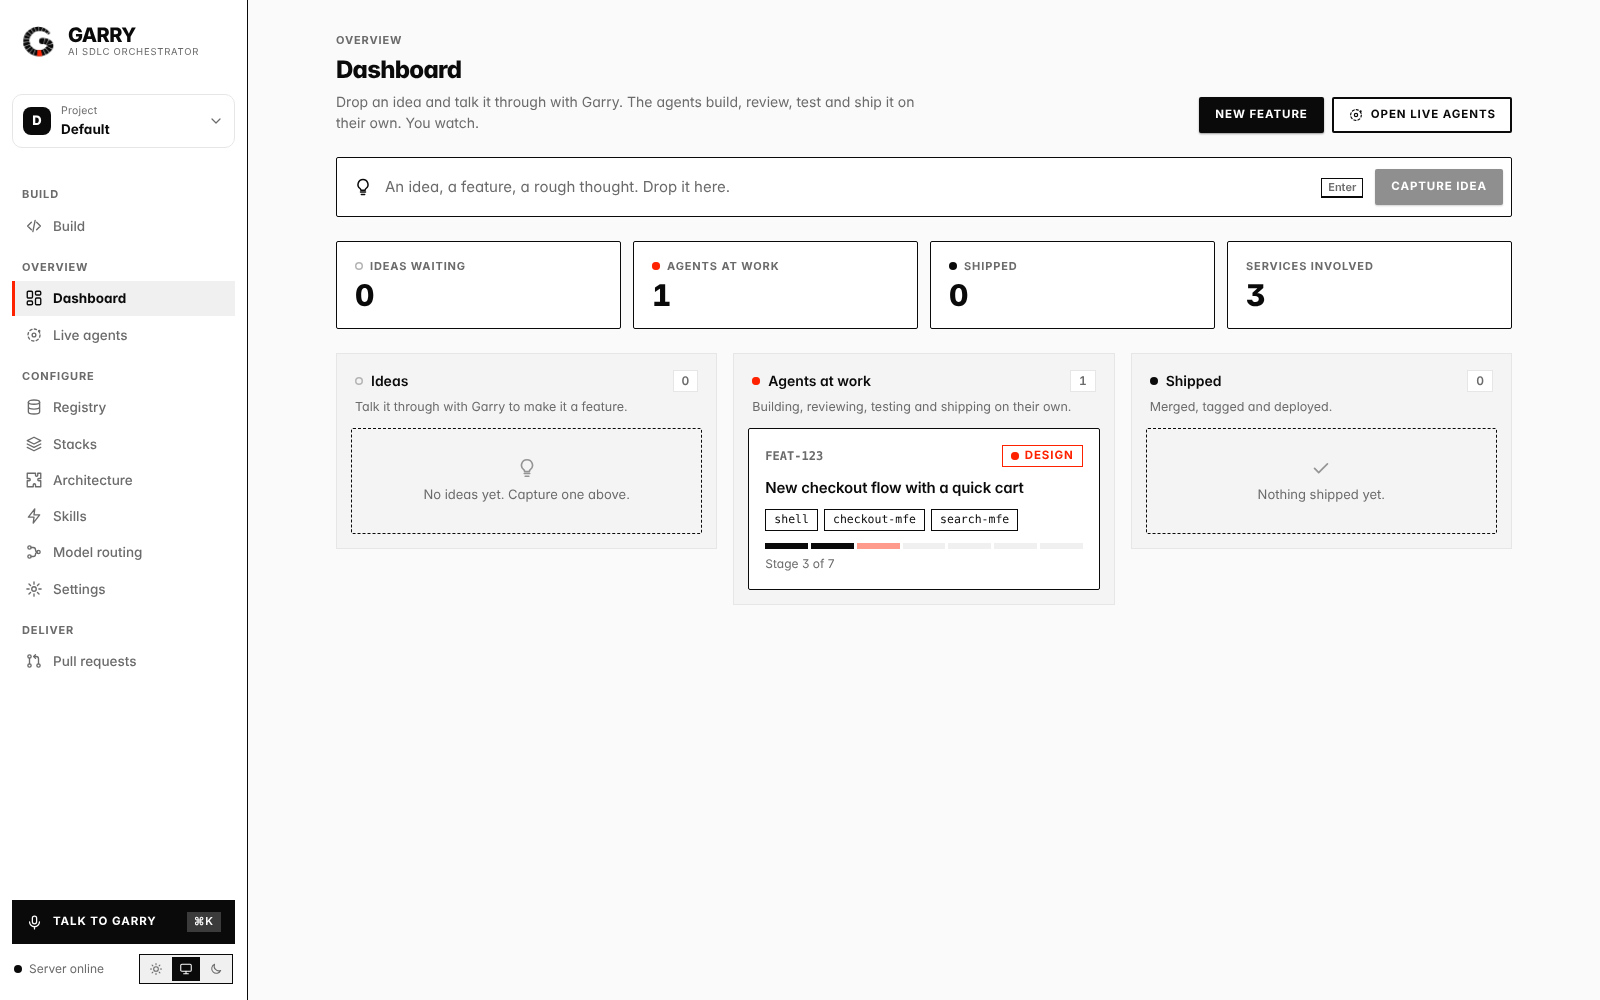
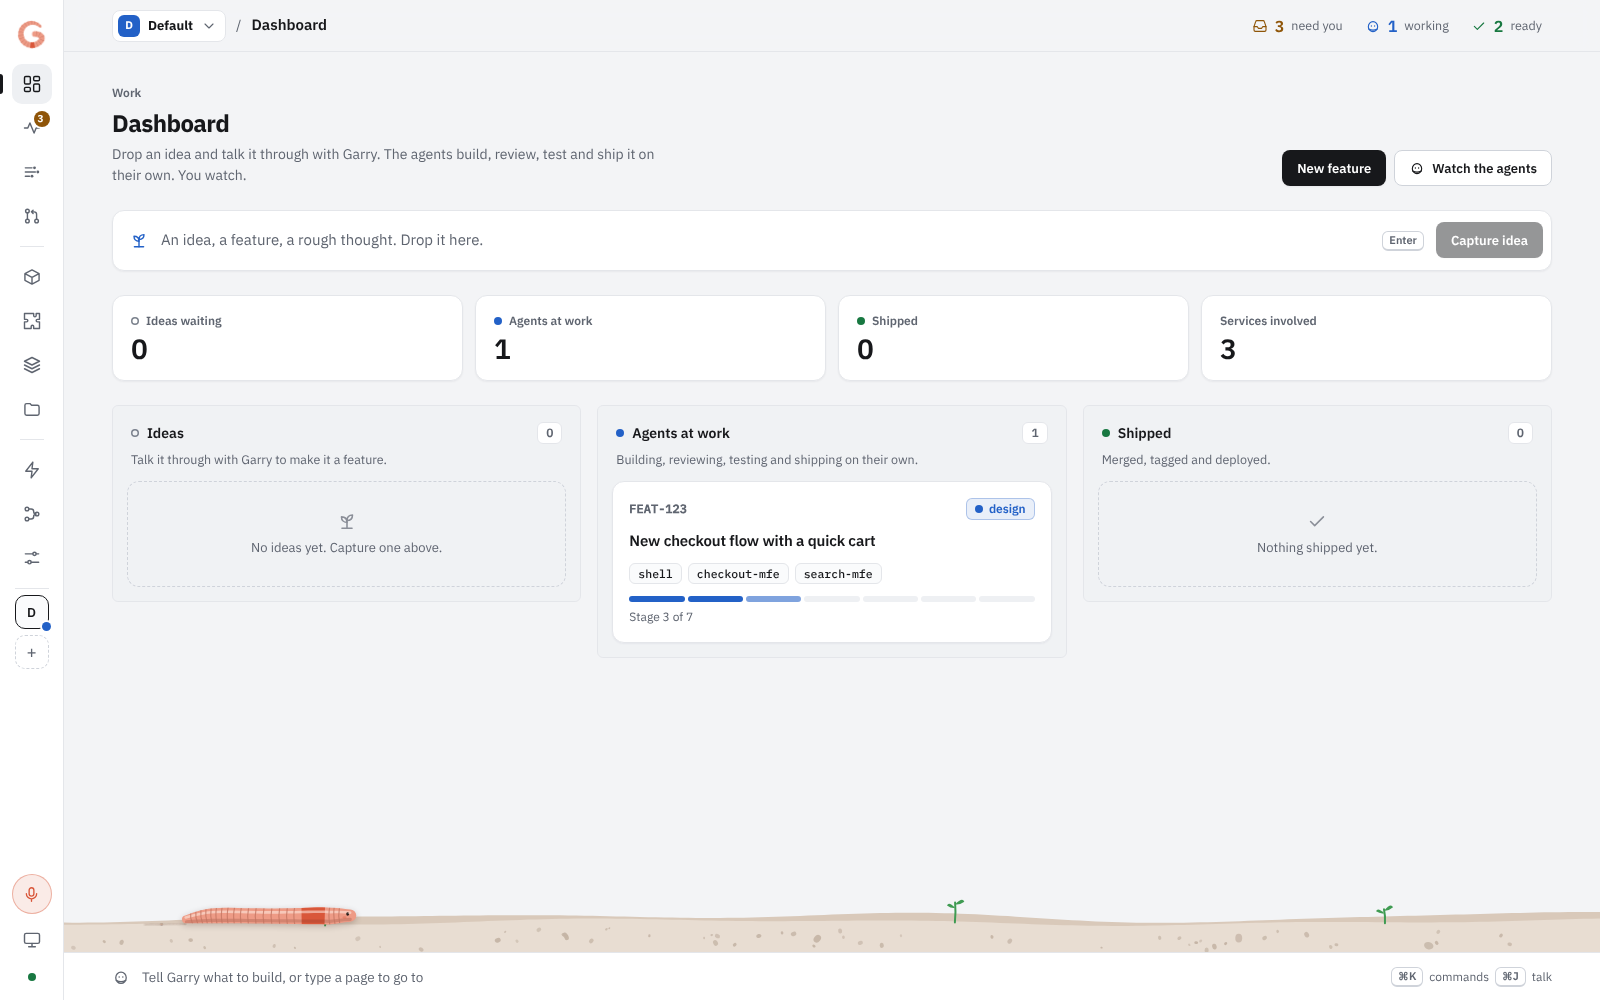
README: the new look, Live, the iPhone app; fresh screenshots
- README describes Live, the frame (rail, top bar, Cmd/Ctrl+K command line,
  Cmd/Ctrl+J voice dock), the crew and illustrations, the iPhone home
  screen, and the browser tests CI runs.
- Screenshots retaken in the new look, plus Live and the iPhone app in
  both themes; garry-tool/scripts/readme-shots.ts (pnpm -C garry-tool
  readme-shots) retakes them all against a demo project.
- The architecture minimap follows the theme (it was light grey in dark).

Claude-Session: https://claude.ai/code/session_013NkSSFzuoQNaFp86Zehbkj

diff --git a/garry-tool/scripts/readme-shots.ts b/garry-tool/scripts/readme-shots.ts
@@ -1,0 +1,146 @@
+/**
+ * The README's screenshots (docs/screenshots), taken from the real dashboard
+ * and the iPhone app's web build against a real Garry server with a demo
+ * project: agents that ask, work, stopped and are ready (a stand-in for
+ * Claude Code runs them), the frontend test registry, and an architecture
+ * board from a ready-made template. Run after a change to how Garry looks:
+ *   pnpm -C garry-ui build && pnpm -C garry-mobile export:web
+ *   pnpm -C garry-tool readme-shots
+ */
+import { execFileSync } from "node:child_process";
+import { cpSync, existsSync, mkdirSync, mkdtempSync, readFileSync, writeFileSync } from "node:fs";
+import { createServer } from "node:http";
+import { tmpdir } from "node:os";
+import { extname, join, normalize } from "node:path";
+import { fileURLToPath } from "node:url";
+import type { AddressInfo } from "node:net";
+
+const home = mkdtempSync(join(tmpdir(), "garry-readme-"));
+process.env.GARRY_HOME = join(home, ".garry");
+process.env.GARRY_NO_GH = "1";
+process.env.GARRY_CLAUDE_BIN = fileURLToPath(new URL("../src/threads/testdata/fake-claude.mjs", import.meta.url));
+const ui = fileURLToPath(new URL("../../garry-ui/dist", import.meta.url));
+const phoneApp = fileURLToPath(new URL("../../garry-mobile/dist", import.meta.url));
+const out = fileURLToPath(new URL("../../docs/screenshots", import.meta.url));
+if (!existsSync(join(ui, "index.html"))) throw new Error("build the dashboard first: pnpm -C garry-ui build");
+mkdirSync(out, { recursive: true });
+
+const { createGarryServer } = await import("../src/server/server.js");
+const { DeviceStore } = await import("../src/server/auth.js");
+const { ThreadManager } = await import("../src/threads/manager.js");
+const { ThreadStore } = await import("../src/threads/store.js");
+const { saveArchitecture } = await import("../src/registry/architecture.js");
+const { ARCHITECTURE_TEMPLATES } = await import("../src/registry/schema/templates.js");
+const { launchChromium } = await import("../src/shots/browser.js");
+
+const until = async (f: () => boolean, ms = 10_000) => {
+  const end = Date.now() + ms;
+  while (!f() && Date.now() < end) await new Promise((r) => setTimeout(r, 50));
+};
+
+// the demo project: a shop with agents in every state
+const repo = join(home, "shop");
+execFileSync("git", ["init", "-q", repo]);
+writeFileSync(join(repo, "README.md"), "# shop\n");
+execFileSync("git", ["-C", repo, "add", "-A"]);
+execFileSync("git", ["-C", repo, "-c", "user.name=t", "-c", "user.email=t@t", "commit", "-qm", "init"]);
+const threads = new ThreadManager(new ThreadStore(process.env.GARRY_HOME!));
+const project = threads.store.addProject(repo, "Shop");
+const minAgo = (m: number) => new Date(Date.now() - m * 60_000).toISOString();
+const past = (title: string, from: number, to: number, said: string, cost: number) => {
+  const t = threads.store.save({ id: threads.store.newId(), projectId: project.id, title, status: "idle", branch: `garry/${title.toLowerCase().replace(/\W+/g, "-")}`, worktree: repo, baseSha: "0", sessionId: null, createdAt: minAgo(from), updatedAt: minAgo(to) });
+  threads.store.append(t.id, { type: "user", text: title, at: minAgo(from) });
+  threads.store.append(t.id, { type: "tool", id: "a", name: "Read", summary: "src/cart/index.ts", at: minAgo(from - 2) });
+  threads.store.append(t.id, { type: "tool", id: "b", name: "Edit", summary: "src/cart/QuickCart.tsx", at: minAgo(from - 6) });
+  threads.store.append(t.id, { type: "text", text: said, at: minAgo(to) });
+  threads.store.append(t.id, { type: "turn_end", ok: true, costUsd: cost, at: minAgo(to) });
+  return t.id;
+};
+past("Plan the summer sale", 44, 27, "Here is a plan for the sale: banners, a countdown and 20% off shoes.\nShould it start on Monday?", 0.12);
+past("Move the cart to its own service", 52, 31, "The cart now lives in cart-service, with its contract updated.", 0.21);
+const run = async (task: string) => {
+  const t = threads.create(project.id, task);
+  await until(() => !threads.isRunning(t.id));
+  return t.id;
+};
+const ready = await run("Write the release notes for the spring sale");
+await run("ASK Add a buy button to the product page");
+await run("FAIL Fix the search prices");
+const busy = threads.create(project.id, "BUSY Add a checkout page with a quick cart");
+await until(() => threads.store.events(busy.id).some((e) => e.type === "tool"));
+
+const registry = join(home, "registry");
+cpSync(fileURLToPath(new URL("../testdata/registry/frontend", import.meta.url)), registry, { recursive: true });
+saveArchitecture(registry, ARCHITECTURE_TEMPLATES.find((t) => t.id === "aws-serverless")!.architecture);
+
+const devices = new DeviceStore(join(home, "devices.json"));
+const server = createGarryServer({ registry, skills: fileURLToPath(new URL("../skills", import.meta.url)), routing: join(home, "none.json"), threads, ui }, devices);
+await new Promise<void>((r) => server.listen(0, "127.0.0.1", r));
+const base = `http://127.0.0.1:${(server.address() as AddressInfo).port}`;
+
+const browser = await launchChromium();
+try {
+  const page = await browser.newPage({ viewport: { width: 1600, height: 1000 } });
+  const shoot = async (name: string, path: string, ready: string, scrollTo?: string) => {
+    await page.goto(`${base}${path}`);
+    await page.locator(ready).first().waitFor({ timeout: 15_000 });
+    // what the picture is about, at the top of the window
+    if (scrollTo) await page.locator(scrollTo).first().evaluate((el) => (el.scrollIntoView({ block: "start" }), window.scrollBy(0, -72)));
+    await page.waitForTimeout(900);
+    await page.screenshot({ path: join(out, `${name}.png`) });
+    console.log(`ok   ${name}.png`);
+  };
+  await shoot("live", "/live", '[role="option"]');
+  await shoot("dashboard", "/", "canvas[data-garry-crawl]");
+  await shoot("build", "/build", "textarea");
+  await shoot("thread", `/build/${ready}`, "text=wrote NOTES.md");
+  await shoot("pipeline", "/build?view=pipeline&feature=FEAT-123", "svg[data-crew]", '[role="tablist"]');
+  await shoot("architecture", "/architecture", ".react-flow__node");
+  await shoot("stacks", "/stacks", "h1");
+  await shoot("routing", "/routing", "h1");
+  await shoot("settings", "/settings", "h1");
+  // the board alone, in both themes
+  for (const scheme of ["light", "dark"] as const) {
+    await page.emulateMedia({ colorScheme: scheme });
+    await page.goto(`${base}/architecture`);
+    await page.locator(".react-flow__node").first().waitFor();
+    // the command line pinned at the foot would cover the board's lower edge
+    await page.addStyleTag({ content: ".cmdline { display: none !important; }" });
+    await page.waitForTimeout(900);
+    await page.locator(".react-flow").first().screenshot({ path: join(out, `architecture-board-${scheme}.png`) });
+    console.log(`ok   architecture-board-${scheme}.png`);
+  }
+  await page.close();
+
+  // the iPhone app, paired the way a phone pairs
+  if (existsSync(join(phoneApp, "index.html"))) {
+    const types: Record<string, string> = { ".html": "text/html", ".js": "text/javascript", ".png": "image/png", ".ttf": "font/ttf" };
+    const statics = createServer((req, res) => {
+      const file = join(phoneApp, normalize(new URL(req.url ?? "/", "http://x").pathname).replace(/^(\.\.[/\\])+/, ""));
+      const hit = file.startsWith(phoneApp) && existsSync(file) && extname(file) ? file : join(phoneApp, "index.html");
+      res.writeHead(200, { "content-type": types[extname(hit)] ?? "application/octet-stream" });
+      res.end(readFileSync(hit));
+    });
+    await new Promise<void>((r) => statics.listen(0, "127.0.0.1", r));
+    const appUrl = `http://127.0.0.1:${(statics.address() as AddressInfo).port}`;
+    process.env.GARRY_UI_ORIGINS = appUrl;
+    const paired = devices.pair(devices.createCode().code, "README iPhone");
+    if ("error" in paired) throw new Error(paired.error);
+    for (const scheme of ["light", "dark"] as const) {
+      const phone = await browser.newPage({ viewport: { width: 390, height: 844 }, deviceScaleFactor: 2, isMobile: true, colorScheme: scheme });
+      await phone.addInitScript((c) => localStorage.setItem("garry.connection", c), JSON.stringify({ baseUrl: base, token: paired.token, deviceId: paired.device.id }));
+      await phone.goto(appUrl);
+      await phone.getByText("Needs you").first().waitFor({ timeout: 20_000 });
+      await phone.waitForTimeout(1200);
+      await phone.screenshot({ path: join(out, `iphone-${scheme}.png`) });
+      console.log(`ok   iphone-${scheme}.png`);
+      await phone.close();
+    }
+    statics.close();
+  } else console.log("skip the iPhone app: pnpm -C garry-mobile export:web first");
+} finally {
+  await browser.close();
+  threads.stop(busy.id);
+  server.close();
+}
+process.exit(0);

diff --git a/garry-ui/app/architecture/architecture.module.css b/garry-ui/app/architecture/architecture.module.css
@@ -60,6 +60,11 @@
   --xy-edge-label-background-color: var(--surface);
   --xy-edge-label-color: var(--color-text-default);
   --xy-minimap-background-color: var(--surface);
+  /* the minimap in the theme's colours, not React Flow's light grey */
+  --xy-minimap-mask-background-color: color-mix(in srgb, var(--bg) 70%, transparent);
+  --xy-minimap-mask-stroke-color: var(--border-strong);
+  --xy-minimap-node-background-color: var(--surface-3);
+  --xy-minimap-node-stroke-color: var(--border-strong);
   --xy-controls-button-background-color: var(--surface);
   --xy-controls-button-color: var(--color-text-default);
   --xy-controls-button-border-color: var(--border);

diff --git a/README.md b/README.md
@@ -27,12 +27,31 @@ See [ARCHITECTURE.md](./ARCHITECTURE.md) for the full design.
 
 ## Screenshots
 
-**Build** is the one place for agents: "Agents now" shows every agent at a
-glance (what it is doing right now, what it asks you, what is ready), and the
-feature pipeline view shows a feature's orchestration from left to right, each
-stage with the agent and model doing it for Garry and for every service.
+**Live** is mission control: every agent of the project as a lane on a
+timeline, built from what the agents actually did (working, waiting on you,
+ready, failed), with a now line running through. What needs you sits beside
+it in the agent's own words, and you answer right there; an agent that stopped
+gets **Let it fix**. Pick a lane (or J and K) to follow it step by step, with
+what it has cost.
 
-![Feature pipeline](docs/screenshots/live-agents.png)
+![Live](docs/screenshots/live.png)
+
+Every page sits in the same frame: a narrow **rail** with every page as an
+icon (Live carries a badge with what needs you, your projects are squares to
+switch between), a **top bar** with the project, the page and Garry at a
+glance (need you, working, ready), and a **command line** at the foot: press
+**Cmd/Ctrl+K** and type a page's name to go there, or a sentence to start an
+agent on it in Build or to talk it through with Garry (**Cmd/Ctrl+J** opens
+the voice dock). Paper by day, graphite by night; colour only ever means a
+state. Garry's crew has a face per role (the analyst's glasses, the
+developer's headphones, the reviewer's lens), and empty pages show Garry's
+world instead of a blank: soil, sprouts, Garry resting when you are caught up.
+
+**The feature pipeline** (in Build) shows a feature's orchestration from left
+to right, each stage with the agent and model doing it for Garry and for
+every service.
+
+![Feature pipeline](docs/screenshots/pipeline.png)
 
 **Architecture**: services and the platforms they run on, joined like puzzle
 pieces, on a board for the whole project and one for each repository. A wizard
@@ -50,11 +69,12 @@ Edge Delivery Services, Document Authoring, AEM Assets, App Builder, I/O Events)
   <img src="docs/screenshots/architecture-board-light.png" alt="Architecture board" />
 </picture>
 
-The dashboard's menu follows the work: **Work** (Dashboard, Build, Pull
+The dashboard's menu follows the work: **Work** (Dashboard, Live, Build, Pull
 requests) is the idea, the agents building it and what it ships as; **Project**
 (Services, Architecture, Stacks, Files) is what it happens in; **Garry**
 (Skills, Model routing, Settings) is how Garry works. Every page uses the whole
-width of the screen and works on a phone, where the menu becomes a drawer.
+width of the screen and works on a phone, where the rail becomes a menu in a
+drawer.
 
 <table>
   <tr>
@@ -199,8 +219,13 @@ and Other Computers, then Pair a Device, shows the pairing QR code.
 
 ## Mobile app
 
-`garry-mobile` is Garry on your phone: the features and the stage each is at, the
-agents working live, and the pull requests. New feature creates one (what it is,
+`garry-mobile` is Garry on your phone, in the same look as the dashboard. Its
+home screen starts with what needs you, in the agent's own words, answered
+right there (or **Let it fix** for an agent that stopped; Garry rests on his
+mound when nothing waits), then the agents at work with their faces and
+states, then the features and the stage each is at. A feature shows its work
+log and its pull requests; a piece of work shows the conversation, its
+changes, commit and pull request. New feature creates one (what it is,
 the goal, the services and contracts it touches), New work starts an agent in a
 project. It talks to the server on your
 computer over your Wi-Fi (or Tailscale), after pairing once with a QR code.
@@ -232,12 +257,20 @@ for everyone, `GARRY_PUSH_URL` sends to a push relay of your own, and
 build of the app with an EAS project id (`eas init`); Expo Go and the simulator
 cannot receive them.
 
+<table>
+  <tr>
+    <td width="50%"><img src="docs/screenshots/iphone-light.png" alt="The iPhone app by day" /></td>
+    <td width="50%"><img src="docs/screenshots/iphone-dark.png" alt="The iPhone app at night" /></td>
+  </tr>
+</table>
+
 TestFlight and App Store builds come from Expo's build service:
 `eas build --platform ios --profile production`, then `eas submit --platform ios`
 ([`eas.json`](./garry-mobile/eas.json)). That needs an Expo account and an Apple
 Developer account (99 USD a year, the same one that signs the Mac app). Until then
 Expo Go runs the app. CI checks the app on every push: the
-client against a real server, a typecheck and a full bundle.
+client against a real server, a typecheck, a full bundle, and its web build in
+a phone-sized browser paired with a real server (`test:mobile`).
 
 ## Guides
 
@@ -259,6 +292,7 @@ client against a real server, a typecheck and a full bundle.
 | `pnpm -r typecheck` | type check every package |
 | `pnpm -C garry-tool check:registry <dir>` | validate a registry (for example `testdata/registry/frontend`) |
 | `pnpm -C garry-tool check:skills` | validate the skills manifest |
+| `pnpm -C garry-tool readme-shots` | retake the README's screenshots (after `pnpm -C garry-ui build` and `pnpm -C garry-mobile export:web`) |
 
 ## Continuous integration
 
@@ -269,6 +303,13 @@ every push and pull request. It has four jobs:
   tool packages, validation of the mfe and backend test registries
   (`check:registry`) and of the skills (`check:skills`), and the skill security audit: every
   pre-installed skill must pass it, and the audit's regression corpus must behave.
+  It also builds the dashboard and clicks through it in a real browser against
+  a real server whose agents are a stand-in for Claude Code: every page at six
+  screen sizes in light and dark (`test:layout`), the frame (`test:frame`),
+  Live (`test:live-ui`), Build, the crew and illustrations, the crawling Garry,
+  and the iPhone app's web build (`test:mobile`). `test:style` checks that text
+  and every state colour reach WCAG AA contrast on every surface, in both
+  themes, on the web and on the phone.
 - `package`: builds the `garry` npm package, packs it, installs the tarball into an
   empty project and runs the CLI there (`pnpm -C garry-tool smoke`).
 - `dash-guard`: runs `scripts/check-no-emdash.mjs`. The build fails if any em dash,
